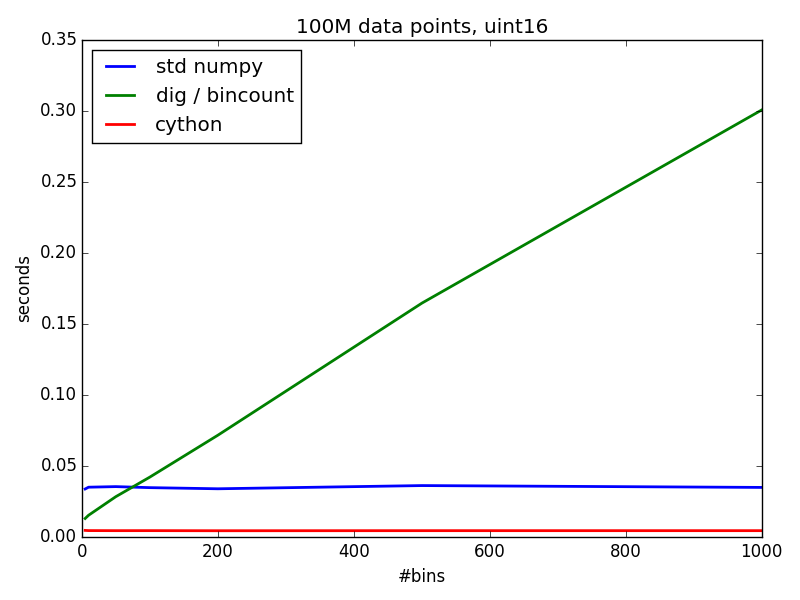
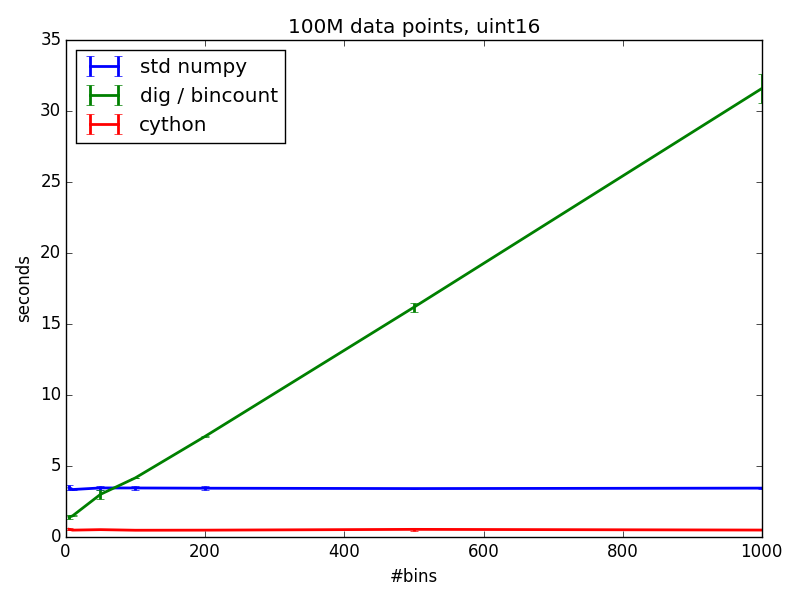
bugfix

diff --git a/Histograms/test_histo.py b/Histograms/test_histo.py
@@ -2,13 +2,13 @@ import numpy as np
 import matplotlib.pyplot as plt
 from time import time
 from sys import argv
-from histogram import create_histogram_int
+from histogram import create_histogram_int, create_histogram_double
+
 
 #@profile
 def histo_2(data, bins):
     binned_values = np.digitize(data.flatten(), bins[1:-1])
     values = np.bincount(binned_values)
-    #bins = np.insert(bins, -1, 1)
     return bins, values
 
 
@@ -16,9 +16,10 @@ samples = 5
 nbins = int(argv[1])
 print "##### ", nbins
 
-data = np.random.randint(0, 100, size=1000*1000*1).astype(np.uint16)
+# data = np.random.randint(0, 100, size=1000 * 1000 * 100).astype(np.float64)
+data = np.random.randint(0, 100, size=1000 * 1000 * 100).astype(np.uint16)
 
-text_file = open("histo_perf_meas_1M.txt", "a+")
+text_file = open("histo_perf_meas_100M_uint16.txt", "a+")
 
 meas1 = np.zeros(samples)
 meas2 = np.zeros(samples)
@@ -42,6 +43,7 @@ for i in xrange(samples):
     meas = np.zeros(samples)
     t0 = time()
     bins3, histo3 = create_histogram_int(data, nbins)
+    # bins3, histo3 = create_histogram_double(data, nbins)
     meas3[i] = time() - t0
 
     print (histo1 - histo2 == 0).all()
@@ -60,7 +62,3 @@ print "%s: %.2f +- %.2f" %(sample, meas3.mean(), meas3.std())
 text_file.write("%s\t%i\t%f\t%f\n" % (sample, nbins, meas3.mean(), meas3.std()))
 
 text_file.close()
-
-#plt.figure()
-#plt.bar(bins[:], histo[:])
-#plt.show()

diff --git a/Histograms/plot_perf.py b/Histograms/plot_perf.py
@@ -2,16 +2,17 @@ import pandas as pd
 import matplotlib.pyplot as plt
 
 
-df = pd.read_csv("histo_perf_meas_1M.txt", delimiter="\t")
+df = pd.read_csv("histo_perf_meas_100M_uint16.txt", delimiter="\t")
 #df2 = df.set_index("bins")
 print df
-del df["std"]
+#del df["std"]
 
 plt.figure()
 plt.title("100M data points, uint16")
 plt.xlabel("#bins")
 plt.ylabel("seconds")
 for i in ["std numpy", "dig / bincount", "cython"]:
-    plt.plot(df[df["name"] == i]["bins"], df[df["name"] == i]["mean"], label=i, linewidth=2)
+    t_df = df[df["name"] == i]
+    plt.errorbar( t_df["bins"], t_df["mean"], yerr=t_df["std"], label=i, linewidth=2)
 plt.legend(loc='best')
 plt.show()
